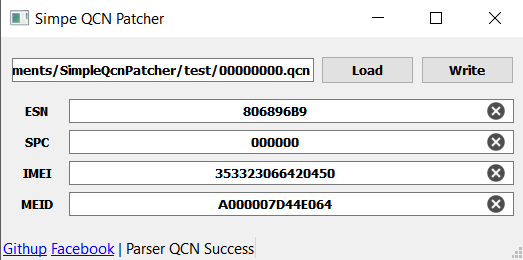
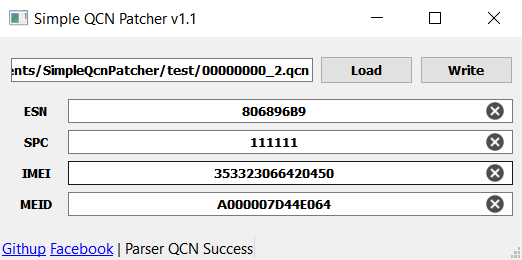
Fix Errors

diff --git a/mainwindow.cpp b/mainwindow.cpp
@@ -24,6 +24,8 @@ MainWindow::MainWindow(QWidget *parent)
     label.setText(HDR_MSG.arg("Simple Qcn Parser"));
     label.show();
     label.setOpenExternalLinks(true);
+    connect(ui->btn_LoadFile,SIGNAL(clicked()),this,SLOT(UserBtns()));
+    connect(ui->btnWriteFile,SIGNAL(clicked()),this,SLOT(UserBtns()));
 }
 
 MainWindow::~MainWindow()
@@ -37,7 +39,7 @@ bool MainWindow::ReadFile(const QString &file, QByteArray &buffer)
     if(_read.open(QIODevice::ReadOnly))
         buffer=_read.readAll();
     else{
-        showMsg("Fail Read File",_read.errorString(),true);
+        showMsg(_read.errorString());
     }
     return !buffer.isEmpty();
 }
@@ -50,9 +52,17 @@ bool MainWindow::WriteFile(const QString &file, const QByteArray &buffer)
         _write.close();
         return true;
     }else{
-        showMsg("Fail Write File",_write.errorString(),true);
+        showMsg(_write.errorString());
     }
     return false;
+}
+
+QByteArray MainWindow::GetHandle(const uint32_t &item)
+{
+    QByteArray qcHandle;
+    qcHandle=QByteArray::fromRawData(reinterpret_cast<const char*>(&item),sizeof(item));
+    qcHandle.prepend(QByteArray::fromHex(handle.toLatin1()));
+    return qcHandle;
 }
 
 bool MainWindow::ParserBuffer(QByteArray &buffer)
@@ -67,9 +77,10 @@ bool MainWindow::ParserBuffer(QByteArray &buffer)
     QByteArray qcHandle,nvData;
     int32_t offset;
     foreach(uint32_t idNV,ids){
-        qcHandle=QByteArray::fromRawData(reinterpret_cast<const char*>(&idNV),sizeof(idNV));
-        qcHandle.prepend(QByteArray::fromHex(handle.toLatin1()));
-        //qDebug() <<idNV<<qcHandle<<qcHandle.toHex();
+        //        qcHandle=QByteArray::fromRawData(reinterpret_cast<const char*>(&idNV),sizeof(idNV));
+        //        qcHandle.prepend(QByteArray::fromHex(handle.toLatin1()));
+        qcHandle=GetHandle(idNV);
+        qDebug() <<idNV<<qcHandle<<qcHandle.toHex();
         offset=buffer.indexOf(qcHandle);
         if(offset){
             nvItems.append(nvItem(idNV,offset,buffer.mid(offset+8,128)));
@@ -93,9 +104,9 @@ bool MainWindow::ParserBuffer(QByteArray &buffer)
     if(ui->lineESN->text().isEmpty() && ui->lineIMEI->text().isEmpty() &&
             ui->lineMEID->text().isEmpty() && ui->lineSPC->text().isEmpty())
     {
-        showMsg("Error Parser","Fail Parser QCN File!",true);
+        showMsg("Fail Parser QCN File!");
     }else{
-        showMsg("Parser","Parser QCN Success");
+        showMsg("Parser QCN Success");
         ui->btnWriteFile->setEnabled(1);
         currentLen=buffer.length();
     }
@@ -107,7 +118,7 @@ bool MainWindow::PatchBuffer(QByteArray &buffer)
     bool state=false;
     QString error;
     foreach(nvItem item,nvItems){
-        QByteArray patch;
+        QByteArray patch,currentItem;
         QString value;
         qDebug() <<item.id<<item.buffer.toHex();
         if(!item.id){
@@ -145,65 +156,66 @@ bool MainWindow::PatchBuffer(QByteArray &buffer)
             QC_Calculator::WritableMEID(value,patch);
         }
         if(patch.length()){
-            patch.append(QByteArray().fill(0x00,(128-patch.length())));
-            qDebug() <<"patch"<<patch.toHex();
-            buffer.replace(item.buffer,patch);
+            patch.prepend(GetHandle(item.id));
+            patch.append(QByteArray().fill(0x00,(136-patch.length())));
+            currentItem=GetHandle(item.id);
+            currentItem.append(item.buffer);
+            qDebug() <<patch.length()<<"patch"<<patch.toHex();
+            qDebug() <<currentItem.length()<<"currentItem"<<currentItem.toHex();
+            buffer.replace(currentItem,patch);
             state=true;
         }
     }
     if(!error.isEmpty())
     {
-        showMsg("Inupt Error",error);
+        showMsg(error);
         return false;
     }
     if(!state){
-        showMsg("Error","Fail Patch data");
+        showMsg("Fail Patch data");
         return false;
     }
     return true;
 }
 
-void MainWindow::showMsg(QString title, QString Msg, bool error)
+void MainWindow::showMsg(QString Msg)
 {
     QApplication::beep();
     label.setText(HDR_MSG.arg(Msg));
-    //    QMessageBox box(this);
-    //    box.setWindowTitle(title);
-    //    box.setIcon(error?QMessageBox::Warning:QMessageBox::Information);
-    //    box.setText(Msg);
-    //    box.exec();
-    //    ui->statusbar->showMessage(QString("%1").arg(Msg),5000);
 }
 
-void MainWindow::on_btn_LoadFile_clicked()
+void MainWindow::UserBtns()
 {
-    QString file=QFileDialog::getOpenFileName(this,"Select QCN File","","Qcn File(*.qcn)");
-    if(file.isEmpty())
-        return;
-    if(!ReadFile(file,buffer))
-        return;
-    if(ParserBuffer(buffer))
-        ui->lineQcFile->setText(file);
+    setEnabled(false);
+    QPushButton *pButton = qobject_cast<QPushButton *>(sender());
+    qDebug() <<"sender"<<sender();
+    if(pButton==ui->btn_LoadFile){
+        QString file=QFileDialog::getOpenFileName(this,"Select QCN File","","Qcn File(*.qcn)");
+        if(!file.isEmpty()){
+            if(ReadFile(file,buffer)){
+                if(ParserBuffer(buffer))
+                    ui->lineQcFile->setText(file);
+            }
+        }
 
-}
-
-void MainWindow::on_btnWriteFile_clicked()
-{
-    QString file=QFileDialog::getSaveFileName(this,"Select Save File Name","","Qcn File(*.qcn)");
-    if(file.isEmpty())
-        return;
-    if(buffer.isEmpty()){
-        showMsg("","Load QCN File First !",true);
-        return;
+    }else if(pButton==ui->btnWriteFile){
+        QString file=QFileDialog::getSaveFileName(this,"Select Save File Name","","Qcn File(*.qcn)");
+        if(!file.isEmpty()){
+            if(!buffer.isEmpty()){
+                if(PatchBuffer(buffer))
+                {
+                    if(currentLen==buffer.length()){
+                        if(WriteFile(file,buffer))
+                            showMsg("Success Write Patch Data");
+                    }else{
+                        qDebug() <<currentLen<<buffer.length();
+                        showMsg("Fail Detect Current Length File");
+                    }
+                }
+            }else{
+                showMsg("Load QCN File First !");
+            }
+        }
     }
-    if(!PatchBuffer(buffer))
-    {
-        return;
-    }
-    if(currentLen!=buffer.length()){
-        showMsg("Error","Fail Detect Current Length File");
-        return;
-    }
-    if(WriteFile(file,buffer))
-        showMsg("","Succecc Write Patch Data");
+    setEnabled(true);
 }

diff --git a/mainwindow.h b/mainwindow.h
@@ -22,7 +22,7 @@ typedef struct _nv_item_{
         buffer=buff;
         //        qDebug() <<"Add "<<id<<offset<<buffer.mid(0,30)<<buffer.length()<<endl<<endl;
     }
-    int id;
+    uint id;
     int offset;
     QByteArray buffer;
 }nvItem;
@@ -41,14 +41,12 @@ public:
     ~MainWindow();
     bool ReadFile(const QString &file,QByteArray &buffer);
     bool WriteFile(const QString &file,const QByteArray &buffer);
-
+    QByteArray GetHandle(const uint32_t &item);
     bool ParserBuffer(QByteArray &buffer);
     bool PatchBuffer(QByteArray &buffer);
-    void showMsg(QString title,QString Msg,bool error=false);
+    void showMsg(QString Msg);
 private slots:
-    void on_btn_LoadFile_clicked();
-
-    void on_btnWriteFile_clicked();
+    void UserBtns();
 
 private:
     Ui::MainWindow *ui;
